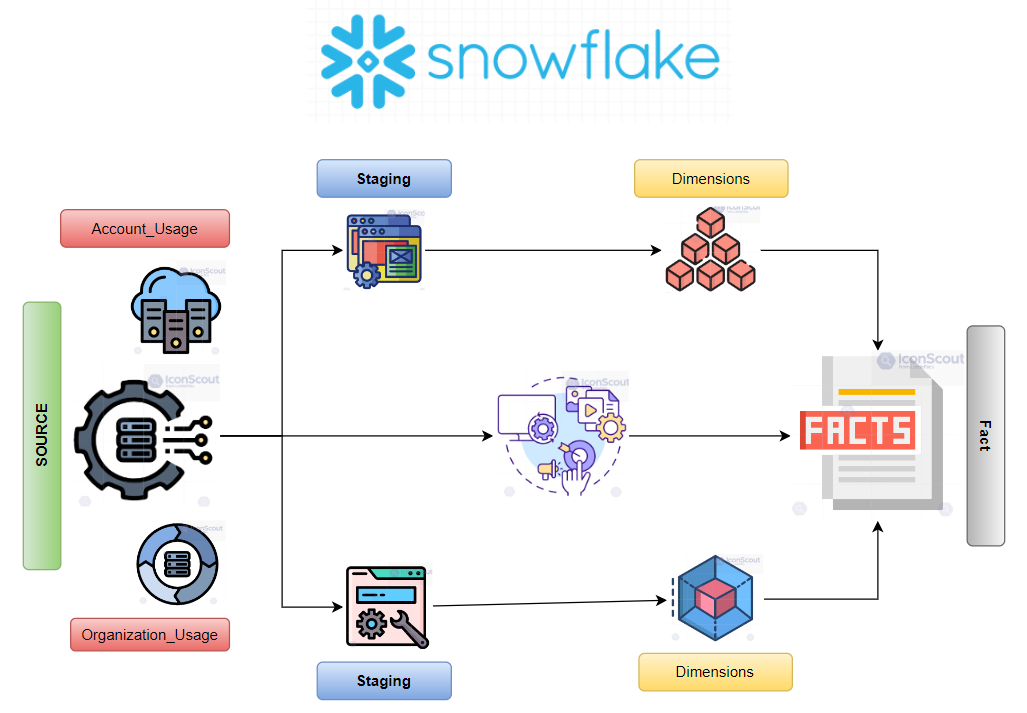
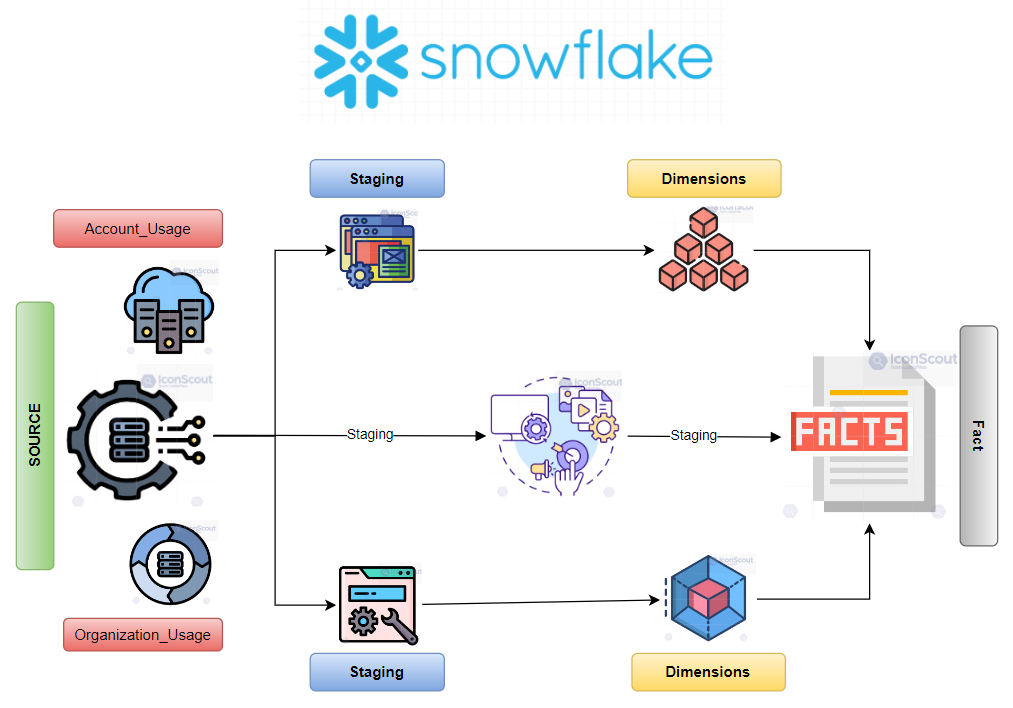
added new fact er diagram

diff --git a/snowflake/README.md b/snowflake/README.md
@@ -92,8 +92,17 @@ dbt seed --full-refresh
 
 The dimensions are created/load using the incremental strategy. Yaml files are provided for all the models containing column description and tests.
 
+### Fact_Usage_Metrics:
+
+This fact model contains Id & metrics columns of query_history table whereas the Id columns are derived within the fact model using dbt_utils.surrogate_key feature and some Id columns are created by joining some dimension models. In this fact some cost columns like "query_cost", "cloud_compute_cost" and "compute_cost" are calculated per query_id and currency code by region is also added.
+
+### Fact_cost_metrics:
+
+This fact model contains Id & metrics column of daily_spend table whereas the daily_spend is created by joining daily_rates table and multiple tables from account_usage and organization_usage schemas. In this fact the "storage", "compute", "cloud_services" and multiple services cost are calculated and currency code by region is also added.
+
 ### Star Schema ER model of the Data Mart:
 ![Datamart Star Schema](./artifacts/datamart_er_diagram.png)
+![Datamart Star Schema](./artifacts/er_fact_2.png)
 
 ### dbt project Lineage Graph:
 ![Datamart dbt Lineage Graph](./artifacts/snowflake-usagedata-lineage.png)
